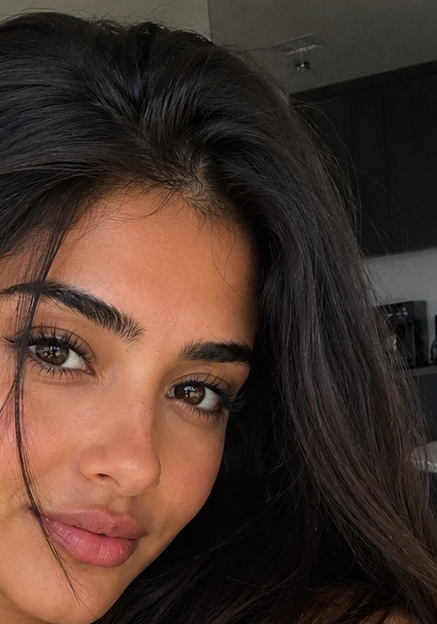
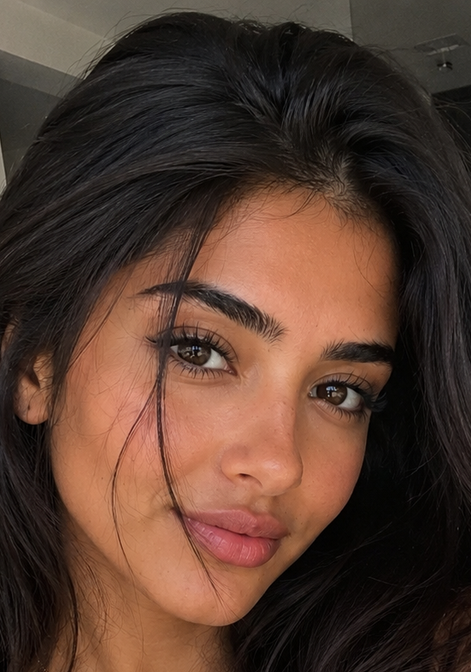
Fix Valentina crop + replace paywall slide-1 image with clean cropped grid (build +86)
Valentina: her face centre was mis-estimated (cxf 0.60), shoving her to the
card edge behind her hair. Re-centred to her actual face (cxf 0.47) — full
face now visible.

Paywall slide 1 (assets/marketing/girls_grid.png) was a baked 2×2 of the OLD
uncropped women — cleavage/lingerie, exactly what Apple flagged under 1.1.4.
Regenerated it from the corrected neck-up portraits: clean 2×2 (Sofia,
Seraphina, Lexi, Elise) with name + accent chip, no cleavage, on-brand dark
styling. Updated the panel aspectRatio to 1125/1572 to match so nothing
crops. Paywall flow (BECOME HIM, pricing, slides) unchanged.

Claude-Session: https://claude.ai/code/session_01Rt6Sb12eRmDG19zpDRtg6f

diff --git a/lib/screens/paywall/paywall_screen.dart b/lib/screens/paywall/paywall_screen.dart
@@ -648,9 +648,11 @@ class _GirlsPanel extends StatelessWidget {
       padding: const EdgeInsets.symmetric(horizontal: 20, vertical: 6),
       child: Center(
         child: AspectRatio(
-          // The 2×3 roleplay-cast grid is portrait — its own ratio so the
+          // The roleplay-cast grid is portrait — its own ratio so the
           // whole grid shows, framed like the other panels' hero image.
-          aspectRatio: 1125 / 1496,
+          // 1125×1572 = the clean neck-up 2×2 (regenerated from the cropped
+          // portraits; no cleavage, App-Store safe for Guideline 1.1.4).
+          aspectRatio: 1125 / 1572,
           child: ClipRRect(
             borderRadius: BorderRadius.circular(20),
             child: Image.asset(

diff --git a/lib/config/dev_flags.dart b/lib/config/dev_flags.dart
@@ -85,4 +85,4 @@ const kForceOnboarding = false;
 /// tell which build is actually installed on-device (TestFlight lag has
 /// repeatedly made us debug a stale build). Bump this with every pubspec
 /// build-number bump.
-const kBuildTag = 'b85-thumbs-out';
+const kBuildTag = 'b86-paywall-clean';
